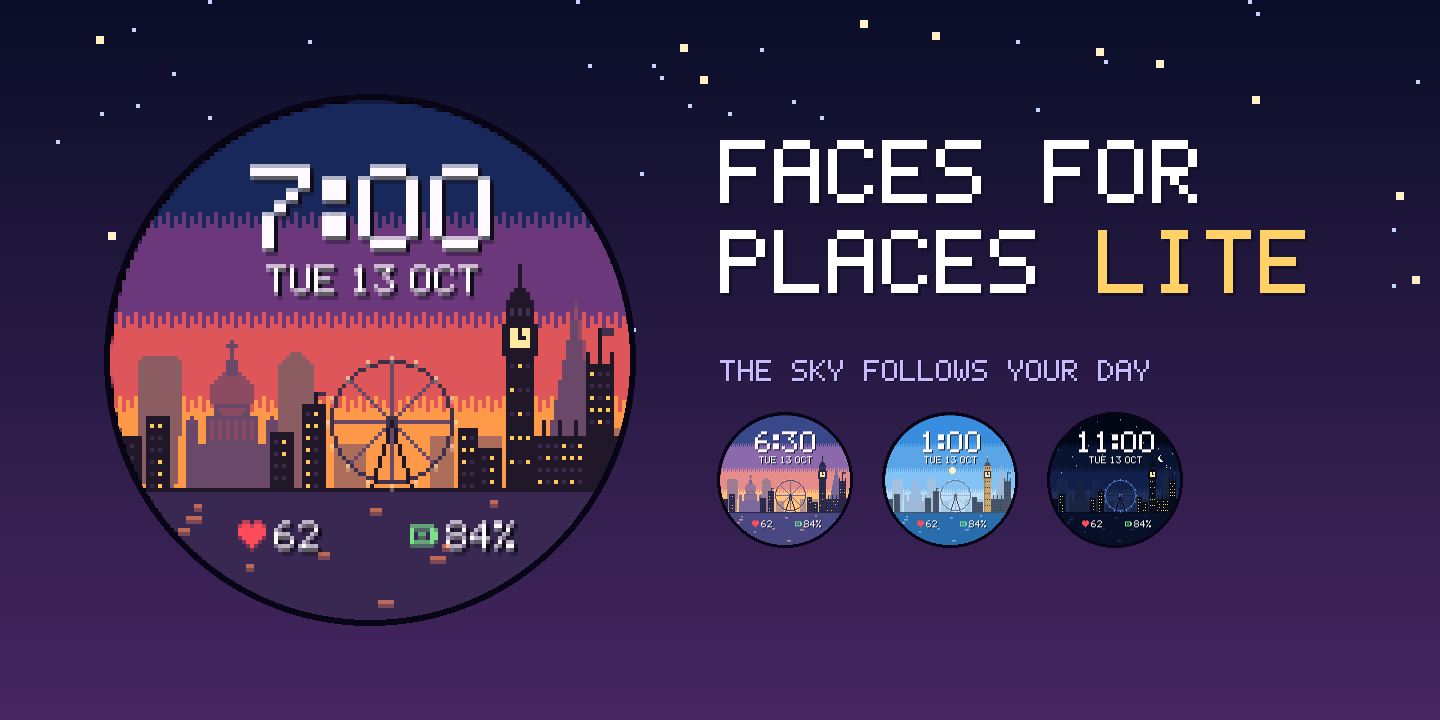
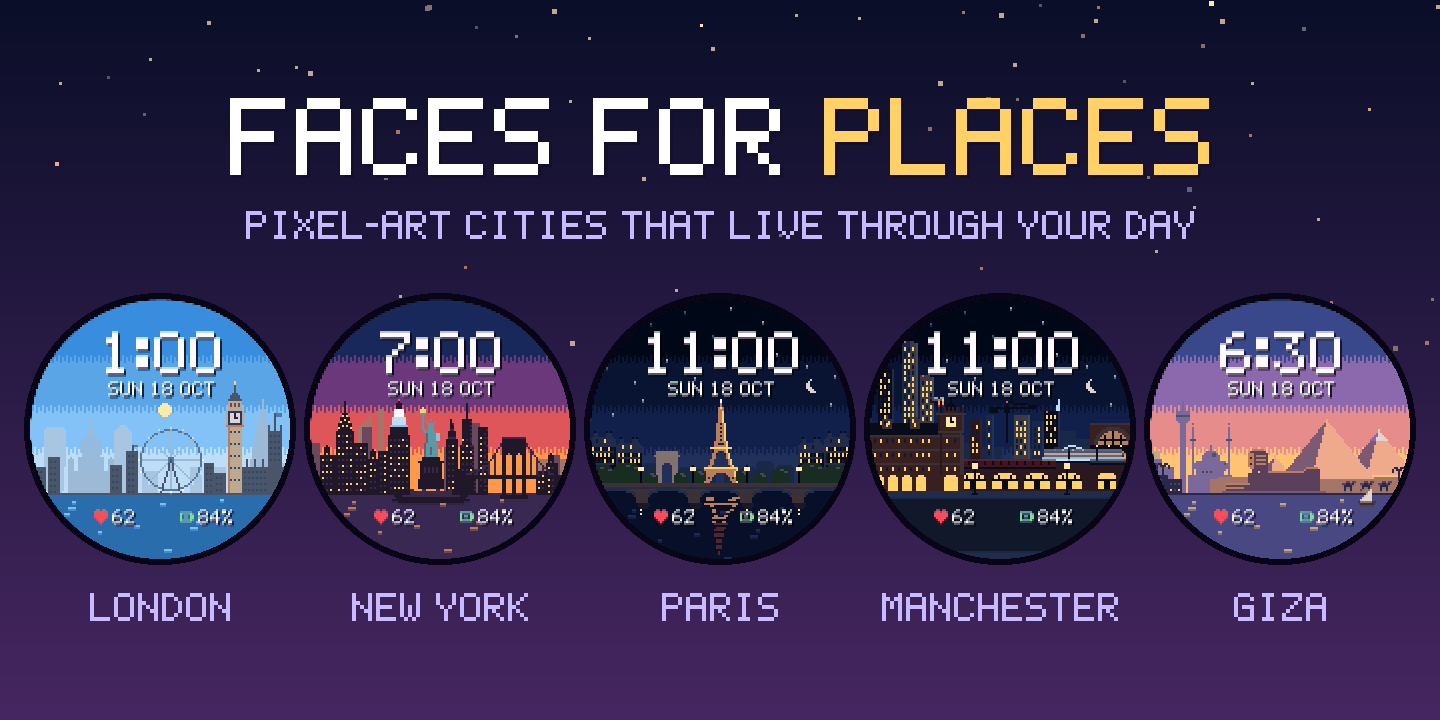
Website: both editions, the five cities, an up-to-date feature list
A five-city hero (also the paid listing's, promo\full\hero.png), a Cities section
with a still of each city, its landmarks and its edition, plus Nearest to me; the
features grouped, with real twilight, the light and weather options, the status
icons, time and date formats; the editions side by side; FAQ on Lite vs full,
Nearest to me and the icons. Street-level Manchester replaces the old teaser.
teaser.ps1: -Soon '' works (PowerShell 5.1 dropped the empty argument).

diff --git a/index.html b/index.html
@@ -4,9 +4,9 @@
 <meta charset="utf-8">
 <meta name="viewport" content="width=device-width, initial-scale=1">
 <title>Faces for Places</title>
-<meta name="description" content="A pixel-art city watch face for Garmin watches. The sky follows your real sunrise and sunset, and your local weather: rain, snow, storms and clouds.">
+<meta name="description" content="Pixel-art city watch faces for Garmin watches: London, New York, Paris, Manchester and Giza. The sky follows your real sunrise and sunset, and your local weather: rain, snow, storms, sleet and clouds.">
 <meta property="og:title" content="Faces for Places">
-<meta property="og:description" content="A pixel-art city watch face for Garmin watches, whose sky follows your day and your weather.">
+<meta property="og:description" content="Five pixel-art cities for your Garmin watch, whose sky follows your day and your weather. Try London free in Faces for Places Lite.">
 <meta property="og:image" content="img/hero.png">
 <link rel="icon" href="img/cover.png">
 <link rel="preconnect" href="https://fonts.googleapis.com">
@@ -18,24 +18,65 @@
 <header>
   <nav>
     <a class="home" href="./"><img src="img/cover.png" alt="">Faces for Places</a>
+    <a href="#cities">Cities</a>
+    <a href="#features">Features</a>
+    <a href="#editions">Editions</a>
     <a href="#faq">FAQ</a>
-    <a href="privacy.html">Privacy</a>
     <a href="#contact">Contact</a>
   </nav>
 </header>
 
 <main>
   <img class="hero" src="img/hero.png" width="1440" height="720"
-       alt="Faces for Places Lite: pixel-art London at dawn on a round watch, with day and night versions beside it">
+       alt="Faces for Places: London by day, New York at dusk, Paris and Manchester at night and Giza at dawn, each on a round watch face">
 
-  <h1>A tiny pixel-art city that lives through your day</h1>
-  <p class="lead">A watch face for Garmin watches. The sky follows your real sunrise and sunset, and when it rains,
-    snows or storms where you are, it does on your watch too.</p>
+  <h1>Watch faces whose sky follows your day</h1>
+  <p class="lead">Five pixel-art cities for Garmin watches: London, New York, Paris, Manchester and Giza. The sky
+    follows your real sunrise and sunset, and when it rains, snows or storms where you are, it does over the
+    skyline too.</p>
 
   <a class="cta" href="https://apps.garmin.com/apps/ed71a1ea-b74d-4fbb-a06b-3566b06835d3">Get Faces for Places Lite free on the Connect IQ Store</a>
-  <span class="cta soon">Faces for Places Full Version: coming soon to the Connect IQ Store</span>
+  <span class="cta soon">Faces for Places, all five cities: coming soon</span>
 
-  <h2>What it does</h2>
+  <h2 id="cities">The cities</h2>
+  <p>Each city is drawn pixel by pixel from its real skyline, with every sky, weather and animation below.
+    London is free in Lite; the full version has all five.</p>
+  <div class="cities">
+    <figure>
+      <img src="img/cities/london.png" width="390" height="390" alt="London by day: St Paul's, the London Eye, Big Ben and the Shard">
+      <figcaption><b>London</b> <span class="badge free">Free in Lite</span>
+        <span class="desc">From the West End rooftops: St Paul's, the London Eye, Big Ben and the Shard</span></figcaption>
+    </figure>
+    <figure>
+      <img src="img/cities/newyork.png" width="390" height="390" alt="New York at dusk: the Statue of Liberty in front of Manhattan and the Brooklyn Bridge">
+      <figcaption><b>New York</b> <span class="badge">Full version</span>
+        <span class="desc">The Empire State and Chrysler buildings, the Statue of Liberty, One World Trade Center and the Brooklyn Bridge</span></figcaption>
+    </figure>
+    <figure>
+      <img src="img/cities/paris.png" width="390" height="390" alt="Paris at night: the Eiffel Tower lit gold, reflected in the Seine">
+      <figcaption><b>Paris</b> <span class="badge">Full version</span>
+        <span class="desc">The Eiffel Tower across the Seine, gold under its lights after sunset, with the Arc de Triomphe in the distance</span></figcaption>
+    </figure>
+    <figure>
+      <img src="img/cities/manchester.png" width="390" height="390" alt="Manchester at night: towers, a clock tower, and lit bars under a railway viaduct">
+      <figcaption><b>Manchester</b> <span class="badge">Full version</span>
+        <span class="desc">At street level: the Deansgate Square towers, the Refuge clock tower and Beetham Tower, with a train crossing
+        the viaduct into Piccadilly over lit bars in its arches</span></figcaption>
+    </figure>
+    <figure>
+      <img src="img/cities/giza.png" width="390" height="390" alt="Giza at dawn: the Sphinx and the pyramids, Cairo Tower across the Nile">
+      <figcaption><b>Giza</b> <span class="badge">Full version</span>
+        <span class="desc">The Sphinx and the pyramids, with Cairo Tower and the Citadel across the Nile</span></figcaption>
+    </figure>
+    <figure>
+      <div class="more"><span>Nearest<br>to me</span></div>
+      <figcaption><b>Nearest to me</b> <span class="badge">Full version</span>
+        <span class="desc">Shows the city closest to where you are, and changes when you travel. More cities are on the way:
+        <a href="#contact">suggest one</a>.</span></figcaption>
+    </figure>
+  </div>
+
+  <h2 id="features">What it does</h2>
   <div class="gallery">
     <figure><img src="img/daycycle.gif" width="390" height="390" alt="London's sky through a whole day"><figcaption>Dawn, day, dusk and night, timed to your sun</figcaption></figure>
     <figure><img src="img/storm.gif" width="390" height="390" alt="A thunderstorm over London with lightning"><figcaption>Live weather: rain, snow, storms, sleet, clouds</figcaption></figure>
@@ -43,31 +84,66 @@
     <figure><img src="img/fireworks.gif" width="390" height="390" alt="Fireworks over London"><figcaption>Fireworks when you reach a goal</figcaption></figure>
   </div>
 
-  <ul>
-    <li>A short wake animation when you raise your wrist</li>
-    <li>Up to three slots: heart rate, steps, battery, Body Battery, stress, temperature, UV index, sunrise and
-      sunset, calories, floors, intensity minutes, Pulse Ox, respiration, sleep score, altitude, recovery time, alarms</li>
-    <li>Weather from Garmin, Open-Meteo or OpenWeather, for where you are or a place you choose</li>
-    <li>Always-on mode with the time, and the date if you like</li>
-    <li>English, German, French, Italian, Spanish, Arabic (with Eastern Arabic digits) and Chinese (Simplified and
-      Traditional, with the date in Chinese numerals)</li>
-  </ul>
+  <div class="features">
+    <div>
+      <h3>Sky and weather</h3>
+      <ul>
+        <li>A sky that moves through dawn, day, dusk and a starry night, timed to your own sunrise and sunset</li>
+        <li>Dawn and dusk last as long as they really do where you are: short near the equator, long in a northern
+          summer, with no full night when the sun barely sets</li>
+        <li>Or choose the light: always day, dawn, dusk or night, or your own times</li>
+        <li>Live weather, each with its own sky and animation: rain, snow settling on the roofs, thunderstorms with
+          lightning behind the skyline, sleet, and drifting clouds</li>
+        <li>Weather from Garmin, Open-Meteo or OpenWeather (your own key), for where you are or a place you choose,
+          or one weather all the time</li>
+      </ul>
+    </div>
+    <div>
+      <h3>Little moments</h3>
+      <ul>
+        <li>A short wake animation when you raise your wrist: every time, at most every 15 minutes, or off</li>
+        <li>Fireworks over the city when you reach your step, floors or intensity-minutes goal</li>
+        <li>A plug above the time while the watch charges, and a crossed-out phone when your phone is out of
+          range (each can be turned off)</li>
+      </ul>
+    </div>
+    <div>
+      <h3>Make it yours</h3>
+      <ul>
+        <li>Up to three slots: heart rate, steps, battery, Body Battery, stress, temperature, UV index, sunrise,
+          sunset, calories, floors, intensity minutes, Pulse Ox, respiration, sleep score, altitude, recovery time,
+          alarms</li>
+        <li>12 or 24-hour time, or the watch's own; the date in three styles, or hidden</li>
+        <li>Always-on mode: the time, with the date if you like</li>
+        <li>Settings in the Connect IQ app on your phone, or on the watch itself (Customise)</li>
+        <li>English, German, French, Italian, Spanish, Arabic (with Eastern Arabic digits) and Chinese (Simplified
+          and Traditional, with the date in Chinese numerals)</li>
+      </ul>
+    </div>
+  </div>
 
-  <h2>Two editions</h2>
+  <h2 id="editions">Two editions</h2>
+  <p>Both have the same skies, weather, animations and settings. The difference is the cities.</p>
   <div class="cards">
     <div class="card">
       <h3><a href="https://apps.garmin.com/apps/ed71a1ea-b74d-4fbb-a06b-3566b06835d3">Faces for Places Lite</a></h3>
-      <p><b>Free.</b> London from the West End rooftops: St Paul's, the London Eye, Big Ben and the Shard, with
-        every sky, weather, animation and setting.</p>
+      <p class="price">Free, on the store now</p>
+      <ul>
+        <li>London</li>
+        <li>Every sky, weather, animation and setting</li>
+        <li>The other cities show as locked</li>
+      </ul>
     </div>
     <div class="card">
       <h3>Faces for Places</h3>
-      <p><b>£2.99, coming soon.</b> London, New York, Paris, Manchester and Giza, plus "Nearest to me", which shows
-        the city closest to you, with more cities to come.</p>
+      <p class="price">£2.99, coming soon</p>
+      <ul>
+        <li>London, New York, Paris, Manchester and Giza</li>
+        <li>Nearest to me: the city closest to you</li>
+        <li>Every sky, weather, animation and setting</li>
+      </ul>
     </div>
   </div>
-  <img class="wide" src="img/teaser.png" width="1440" height="720"
-       alt="The cities of the full edition at different times of day, and a circle inviting suggestions for more">
 
   <h2>On your screen</h2>
   <p>AMOLED watches show the scene in full colour. MIP watches (Forerunner 255, fenix 7, Enduro and others) have 64
@@ -85,6 +161,13 @@
   </details>
 
   <details>
+    <summary>What's the difference between Lite and the full version?</summary>
+    <p>Only the cities. Lite is free and has London, with every sky, weather, animation and setting. The full
+      version (£2.99, coming soon) adds New York, Paris, Manchester and Giza, and Nearest to me. Try Lite first to
+      see how it looks on your watch.</p>
+  </details>
+
+  <details>
     <summary>How do I change the settings?</summary>
     <p>On the phone: in the Connect IQ Store app, open the face under your watch's watch faces and choose Settings.
       On the watch: open the watch face's menu and choose Customise. Both have the same settings in the same order:
@@ -96,6 +179,13 @@
     <p>Garmin's phone app can lose a change made inside a section (Display and battery, Sky and lighting, Weather
       source) if you go back without saving. Press Save before leaving the section, or change it on the watch
       (Customise), which always keeps it.</p>
+  </details>
+
+  <details>
+    <summary>How does Nearest to me work?</summary>
+    <p>In the full version, Nearest to me (the default Place) shows whichever city is closest to you, using your
+      phone's location or the watch's last GPS fix. It checks again when you raise your wrist, so it changes when
+      you travel. Pick a city under Place to keep that one.</p>
   </details>
 
   <details>
@@ -116,6 +206,12 @@
     <p>Weather reaches the watch through your phone, so it can be a little behind, and Garmin's reading comes from a
       nearby weather station. A web reading more than 6 hours old stops showing rain. If it's often wrong for
       you, try another weather source.</p>
+  </details>
+
+  <details>
+    <summary>What are the little icons above the time?</summary>
+    <p>A plug means the watch is charging. A crossed-out phone means your phone is out of range, so the weather won't
+      update until it's back. You can turn either off under Display and battery.</p>
   </details>
 
   <details>

diff --git a/style.css b/style.css
@@ -68,6 +68,39 @@ nav .home img { width: 32px; height: 32px; border-radius: 50%; }
 
 .wide { border-radius: 12px; margin: 12px 0; }
 
+.cities { display: grid; grid-template-columns: repeat(auto-fit, minmax(220px, 1fr)); gap: 24px 20px; }
+.cities figure { margin: 0; }
+.cities img, .cities .more { width: 100%; aspect-ratio: 1; border-radius: 50%; }
+.cities .more {
+  display: flex; align-items: center; justify-content: center; text-align: center;
+  border: 3px dashed var(--accent); color: var(--accent);
+  font-family: "Silkscreen", monospace; font-size: 1.4rem; line-height: 1.3;
+}
+.cities figcaption { color: var(--muted); font-size: 0.92rem; margin-top: 10px; }
+.cities figcaption b {
+  display: inline-block; margin-right: 6px; color: var(--text);
+  font-family: "Silkscreen", monospace; font-weight: 400; font-size: 1.05rem;
+}
+.cities .desc { display: block; margin-top: 2px; }
+@media (max-width: 560px) {
+  .cities, .gallery { grid-template-columns: 1fr 1fr; gap: 20px 12px; }
+  .cities .more { font-size: 1rem; }
+  .cities figcaption { font-size: 0.85rem; }
+}
+.badge {
+  display: inline-block; margin-bottom: 4px; padding: 0 8px; border-radius: 99px; vertical-align: 2px;
+  border: 1px solid var(--accent); color: var(--accent); font-size: 0.75rem; white-space: nowrap;
+}
+.badge.free { background: var(--accent); color: var(--night); }
+
+.features { display: grid; grid-template-columns: repeat(auto-fit, minmax(240px, 1fr)); gap: 0 28px; margin-top: 8px; }
+.features h3 { color: var(--accent); }
+.features ul { padding-left: 1.2em; margin: 0; }
+.features li { margin-bottom: 6px; }
+
+.card .price { margin: 0 0 6px; color: var(--muted); }
+.card ul { padding-left: 1.2em; margin: 0 0 8px; }
+
 .cards { display: grid; grid-template-columns: repeat(auto-fit, minmax(240px, 1fr)); gap: 16px; }
 .card { background: var(--card); border: 1px solid var(--line); border-radius: 12px; padding: 4px 20px 12px; }
 .card h3 { color: var(--accent); }
